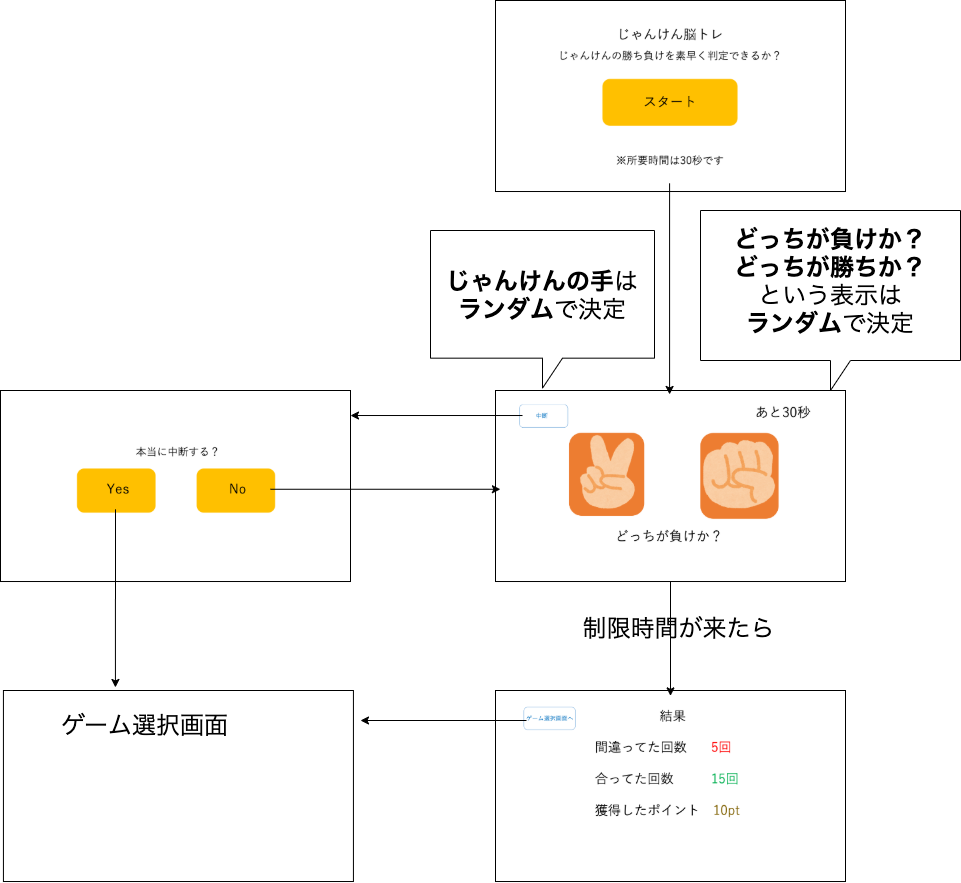
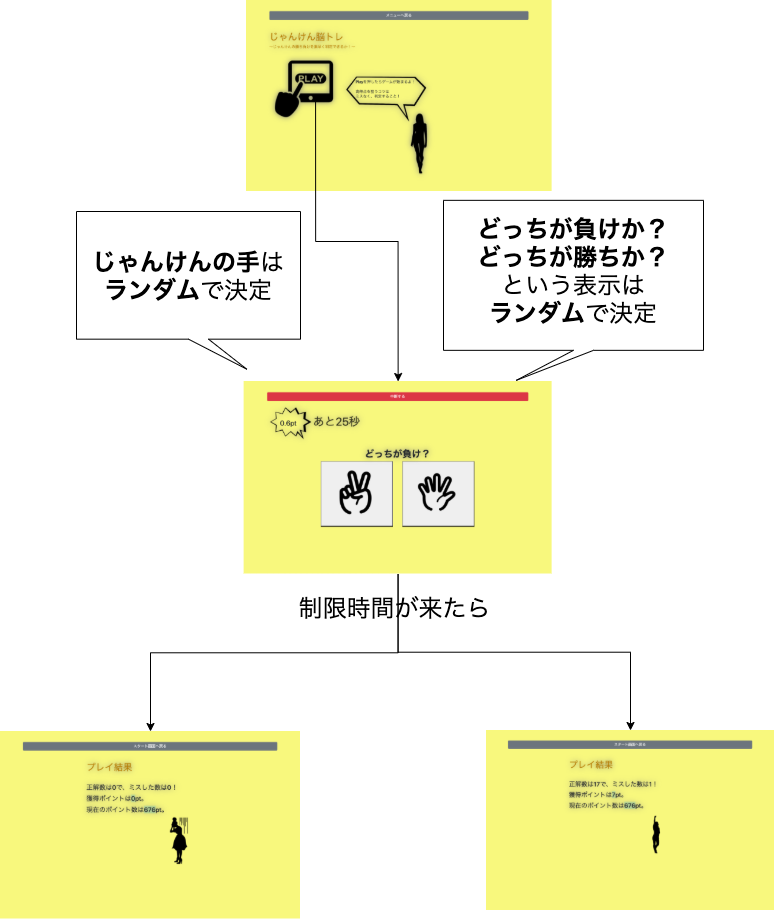
READMEファイルの修正
行ったこと
- じゃんけん脳トレの画面遷移図を更新
- じゃんけん脳トレのポイント算出についての記述を修正
- 担当箇所についての記述を変更

diff --git a/README.md b/README.md
@@ -27,10 +27,10 @@
           - 以下のaからbの手順を踏んで獲得ポイントが決まる
               - 1. 間違ってた回数が10回以上の場合　or (正解した回数 - 間違ってた回数)が0より小さい場合<br>
                   → 獲得ポイントは　0
-              - 2. (正解した回数 - 間違ってた回数)が20回を下回る<br>
+              - 2. (正解した回数 - 間違ってた回数)が10回を下回る<br>
                   →獲得ポイントは　(正解した回数 - 間違ってた回数)*0.3
-              - 3. (正解した回数 - 間違ってた回数)が20回以上の場合<br>
-                  →獲得ポイントは　6 + 1*(正解した回数 - 間違ってた回数 - 20)
+              - 3. (正解した回数 - 間違ってた回数)が10回以上の場合<br>
+                  →獲得ポイントは　3 + 0.6*(正解した回数 - 間違ってた回数 - 10)
           - 「どっちが勝ちか?」「どっちが負けか?」をランダムに表示
           - じゃんけんの手はランダムに表示
           - 途中で中断ができる
@@ -70,8 +70,7 @@
   - ババ抜きゲームでは、１位が２０pts,２位が10pts,３位が5pts,４位が０ptsとする。
 - ログイン画面（山口くん）
 - 新規登録（篠原くん）
-### 脳トレゲーム(担当:森永さん、篠原くん）
-- じゃんけん脳トレのデザイン以外とパズル脳トレ(森永さん)
-- じゃんけん脳トレのデザイン(篠原くん)
+### 脳トレゲーム(担当:森永さん）
+- じゃんけん脳トレとパズル脳トレ
 ### ババ抜きゲーム（担当:桑原くん)
 - ３人CPUとプレイヤーで４人対戦　
